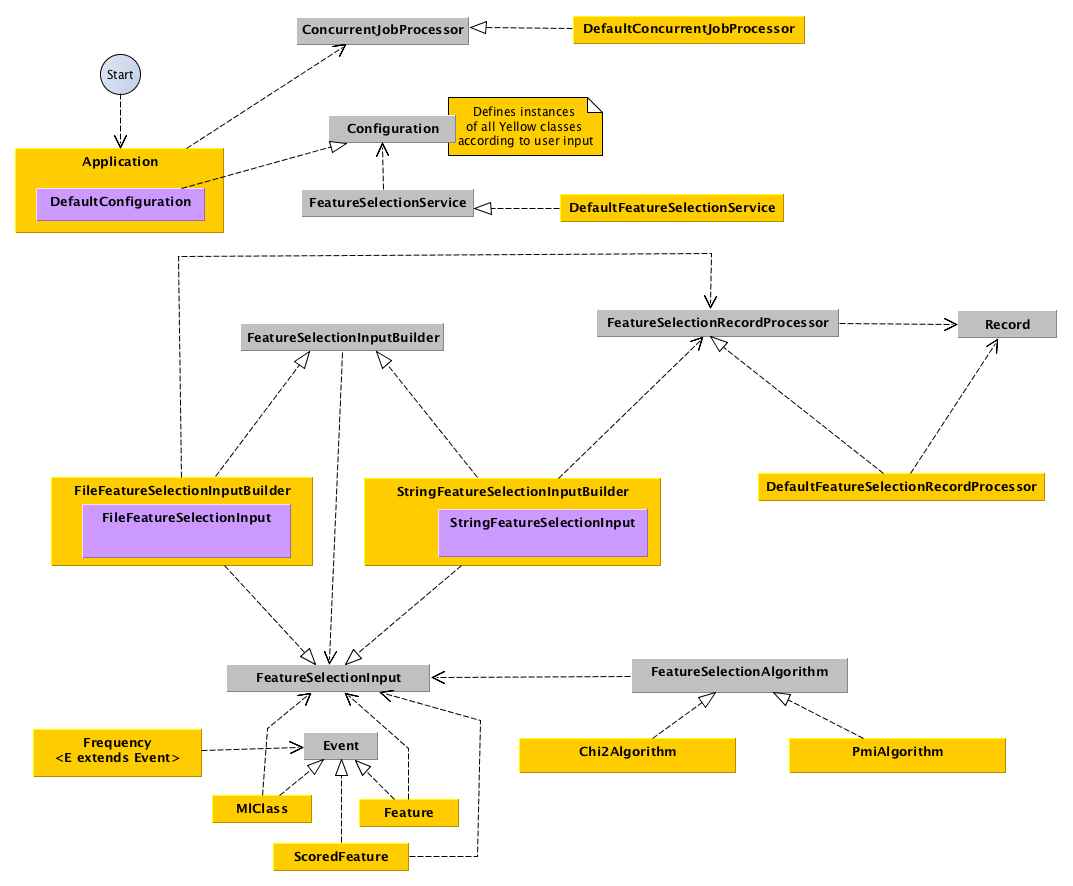
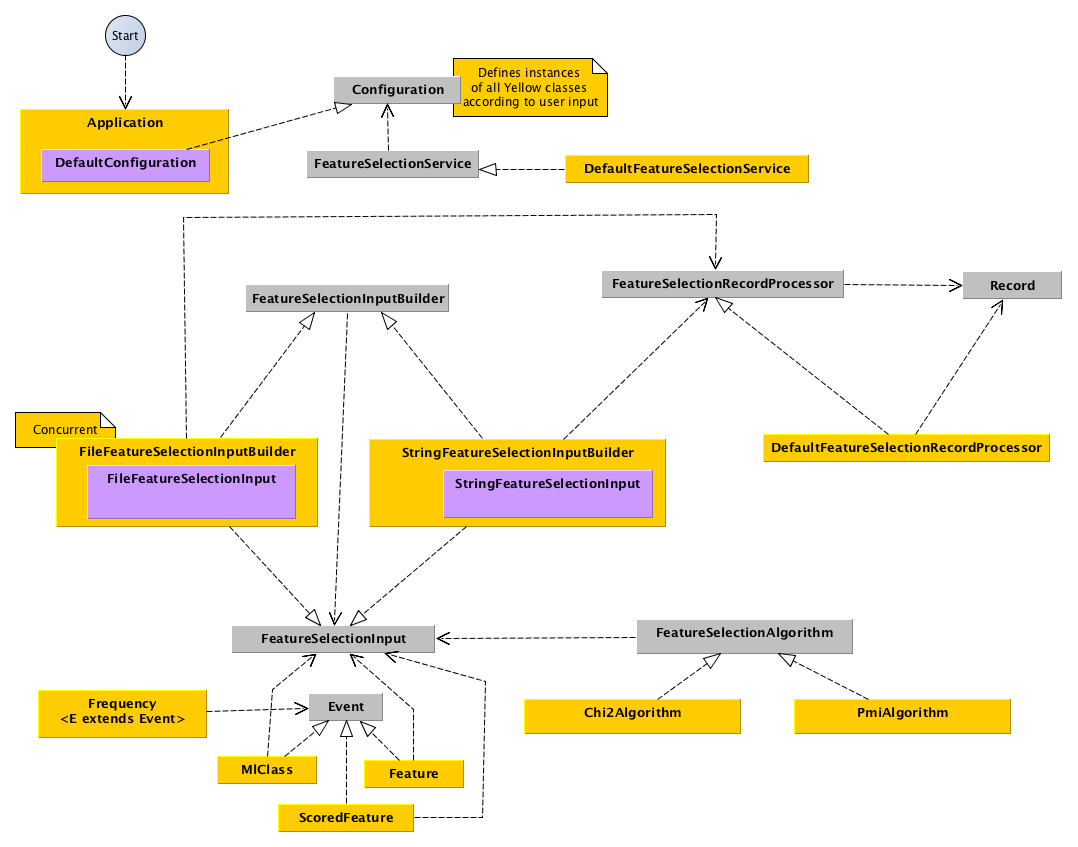
Added configuration class and changed the class diagram

diff --git a/src/main/java/com/a1works/featureSelection/Configuration.java b/src/main/java/com/a1works/featureSelection/Configuration.java
@@ -1,0 +1,14 @@
+package com.a1works.featureSelection;
+
+/**
+ * Created by Ahmed_Magdy on 12/6/15.
+ */
+public interface Configuration {
+
+    FeatureSelectionRecordProcessor getRecordProcessor();
+
+    FeatureSelectionInputBuilder getFeatureSelectionInputBuilder();
+
+    FeatureSelectionAlgorithm getFeatureSelectionAlgorithm();
+    
+}
